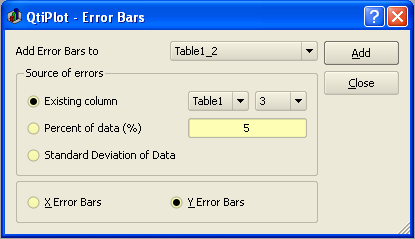
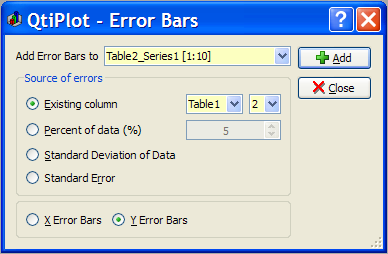
Improvements to add error bars dialog.
git-svn-id: http://svn.berlios.de/svnroot/repos/qtiplot/trunk@2313 5a6a7de5-fb12-0410-b871-c33778c25c60

Changed region(s): [[0.0, 0.0, 1.0, 0.9372], [0.0, 0.9079, 0.9897, 0.9958]]

diff --git a/qtiplot/src/plot2D/dialogs/ErrDialog.cpp b/qtiplot/src/plot2D/dialogs/ErrDialog.cpp
@@ -103,6 +103,10 @@ ErrDialog::ErrDialog( QWidget* parent, Qt::WFlags fl )
 	standardBox = new QRadioButton();
 	buttonGroup1->addButton(standardBox);
 	gridLayout->addWidget(standardBox, 2, 0 );
+
+	standardErrorBox = new QRadioButton();
+	buttonGroup1->addButton(standardErrorBox);
+	gridLayout->addWidget(standardErrorBox, 3, 0 );
 	gridLayout->setColStretch(1, 1);
 
 	groupBox3 = new QGroupBox();
@@ -125,10 +129,12 @@ ErrDialog::ErrDialog( QWidget* parent, Qt::WFlags fl )
 
 	QVBoxLayout * vbox2 = new QVBoxLayout();
 	buttonAdd = new QPushButton();
-	buttonAdd->setDefault( true );
+	buttonAdd->setIcon(QIcon(":/plus.png"));
+	buttonAdd->setDefault(true);
 	vbox2->addWidget(buttonAdd);
 
 	buttonCancel = new QPushButton();
+	buttonCancel->setIcon(QIcon(":/delete.png"));
 	vbox2->addWidget(buttonCancel);
 
 	vbox2->addStretch();
@@ -248,8 +254,10 @@ void ErrDialog::add()
 					aux++;
 				}
 			}
-		} else {
+		} else if (standardBox->isChecked() || standardErrorBox->isChecked()){
 			double sd = gsl_stats_sd(Y.data(), 1, r);
+			if (standardErrorBox->isChecked())
+				sd /= sqrt(r);
 			for (int i = 0; i < rows; i++){
 				if (!t->text(i, ycol).isEmpty())
 					t->setCell(i, col, sd);
@@ -267,14 +275,15 @@ void ErrDialog::add()
 
 void ErrDialog::languageChange()
 {
-    setWindowTitle( tr( "QtiPlot - Error Bars" ) );
-    xErrBox->setText( tr( "&X Error Bars" ) );
+	setWindowTitle( tr( "QtiPlot - Error Bars" ) );
+	xErrBox->setText( tr( "&X Error Bars" ) );
 	buttonAdd->setText( tr( "&Add" ) );
-    textLabel1->setText( tr( "Add Error Bars to" ) );
-    groupBox1->setTitle( tr( "Source of errors" ) );
-    percentBox->setText( tr( "Percent of data (%)" ) );
-    standardBox->setText( tr( "Standard Deviation of Data" ) );
-    yErrBox->setText( tr( "&Y Error Bars" ) );
-    buttonCancel->setText( tr( "&Close" ) );
-	columnBox->setText(tr("Existing column"));
+	textLabel1->setText( tr( "Add Error Bars to" ) );
+	groupBox1->setTitle( tr( "Source of errors" ) );
+	percentBox->setText( "&" + tr( "Percent of data (%)" ) );
+	standardBox->setText( "&" + tr( "Standard Deviation of Data" ) );
+	standardErrorBox->setText(tr( "Standard E&rror" ) );
+	yErrBox->setText( tr( "&Y Error Bars" ) );
+	buttonCancel->setText( tr( "&Close" ) );
+	columnBox->setText("&" + tr("Existing column"));
 }

diff --git a/qtiplot/src/plot2D/dialogs/ErrDialog.h b/qtiplot/src/plot2D/dialogs/ErrDialog.h
@@ -43,7 +43,7 @@ class MdiSubWindow;
 //! Add error bars dialog
 class ErrDialog : public QDialog
 {
-    Q_OBJECT
+	Q_OBJECT
 
 public:
 	//! Constructor
@@ -51,26 +51,27 @@ public:
 	 * \param parent parent widget
 	 * \param fl window flags
 	 */
-    ErrDialog( QWidget* parent = 0, Qt::WFlags fl = 0 );
+	ErrDialog( QWidget* parent = 0, Qt::WFlags fl = 0 );
 
 private:
-    QLabel* textLabel1;
-    QComboBox* nameLabel, *tableNamesBox, *colNamesBox;
-    QGroupBox *groupBox2;
+	QLabel* textLabel1;
+	QComboBox* nameLabel, *tableNamesBox, *colNamesBox;
+	QGroupBox *groupBox2;
 	QGroupBox *groupBox1, *groupBox3;
 	QButtonGroup *buttonGroup1, *buttonGroup2;
-    QRadioButton* standardBox, *columnBox;
-    QRadioButton* percentBox;
-    DoubleSpinBox* valueBox;
-    QRadioButton* xErrBox;
-    QRadioButton* yErrBox;
+	QRadioButton* standardBox, *columnBox;
+	QRadioButton* percentBox;
+	QRadioButton* standardErrorBox;
+	DoubleSpinBox* valueBox;
+	QRadioButton* xErrBox;
+	QRadioButton* yErrBox;
 	QPushButton* buttonAdd;
-    QPushButton* buttonCancel;
+	QPushButton* buttonCancel;
 	QList<MdiSubWindow*> srcTables;
 
 protected slots:
 	//! Set all string in the current language
-    virtual void languageChange();
+	virtual void languageChange();
 
 public slots:
 	//! Add a plot definition
